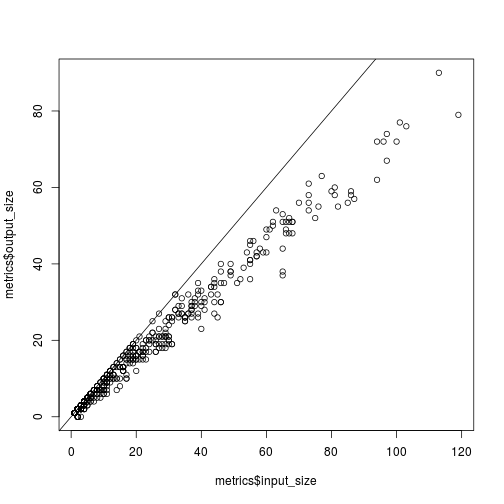
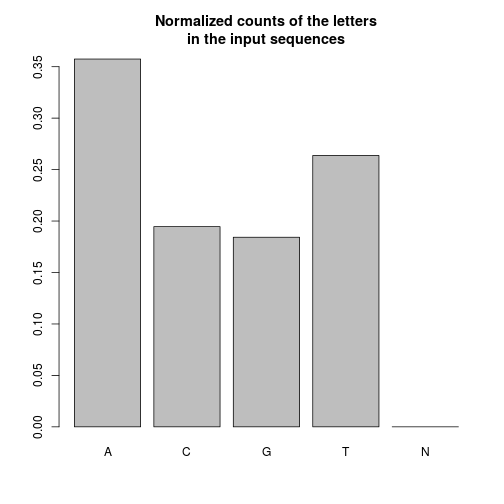
clean up the input file report

diff --git a/inst/report_input_file.html b/inst/report_input_file.html
@@ -3,7 +3,7 @@
 <head>
 <meta http-equiv="Content-Type" content="text/html; charset=utf-8"/>
 
-<title>A Basic report on the input file that was provided</title>
+<title>Input File</title>
 
 <script type="text/javascript">
 window.onload = function() {
@@ -201,12 +201,12 @@ hr {
 </head>
 
 <body>
-<h2>A Basic report on the input file that was provided</h2>
+<h2>Input File</h2>
 
 <pre><code class="r">Sys.time()
 </code></pre>
 
-<pre><code>## [1] &quot;2015-03-17 16:12:40 SAST&quot;
+<pre><code>## [1] &quot;2015-03-19 12:51:11 SAST&quot;
 </code></pre>
 
 <h3>A summary of the input sequences</h3>
@@ -231,33 +231,94 @@ hr {
 
 <h3>The letter frequencies</h3>
 
+<p>Counts of the letters in the input sequences.</p>
+
 <pre><code class="r">x &lt;- apply(consensusMatrix(seq_dat), 1, sum)
 x &lt;- x[x != 0]
-print(x)
+kable(data.frame(letter = names(x),
+                 count = x,
+                 row.names = 1:length(x)))
 </code></pre>
 
-<pre><code>##       A       C       G       T       N 
-## 1889682 1028655  973999 1394116      12
+<table><thead>
+<tr>
+<th align="left">letter</th>
+<th align="right">count</th>
+</tr>
+</thead><tbody>
+<tr>
+<td align="left">A</td>
+<td align="right">1889682</td>
+</tr>
+<tr>
+<td align="left">C</td>
+<td align="right">1028655</td>
+</tr>
+<tr>
+<td align="left">G</td>
+<td align="right">973999</td>
+</tr>
+<tr>
+<td align="left">T</td>
+<td align="right">1394116</td>
+</tr>
+<tr>
+<td align="left">N</td>
+<td align="right">12</td>
+</tr>
+</tbody></table>
+
+<p>Normalized counts of the letters in the input sequences.</p>
+
+<pre><code class="r">x_freq &lt;- round(x/sum(x), 4)
+kable(data.frame(letter = names(x_freq),
+                 count = x_freq,
+                 row.names = 1:length(x_freq)))
 </code></pre>
 
-<pre><code class="r">print(round(x/sum(x), 4))
+<table><thead>
+<tr>
+<th align="left">letter</th>
+<th align="right">count</th>
+</tr>
+</thead><tbody>
+<tr>
+<td align="left">A</td>
+<td align="right">0.3575</td>
+</tr>
+<tr>
+<td align="left">C</td>
+<td align="right">0.1946</td>
+</tr>
+<tr>
+<td align="left">G</td>
+<td align="right">0.1842</td>
+</tr>
+<tr>
+<td align="left">T</td>
+<td align="right">0.2637</td>
+</tr>
+<tr>
+<td align="left">N</td>
+<td align="right">0.0000</td>
+</tr>
+</tbody></table>
+
+<pre><code class="r">barplot(x/sum(x),
+        main = &#39;Normalized counts of the letters\nin the input sequences&#39;)
 </code></pre>
 
-<pre><code>##      A      C      G      T      N 
-## 0.3575 0.1946 0.1842 0.2637 0.0000
-</code></pre>
-
-<pre><code class="r">barplot(x/sum(x))
-</code></pre>
-
[2 lines of base64/hex data omitted]
 
 <h3>The sequence lengths</h3>
 
-<pre><code class="r">hist(width(seq_dat))
+<pre><code class="r">hist(width(seq_dat),
+     main = &quot;Histogram of the lengths of the input sequences&quot;,
+     xlab = &quot;Sequence Length&quot;,
+     ylab = &quot;Number of Sequences&quot;)
 </code></pre>
 
[2 lines of base64/hex data omitted]
 
 </body>
 

diff --git a/inst/report_input_file.md b/inst/report_input_file.md
@@ -1,6 +1,6 @@
 
 
-## A Basic report on the input file that was provided
+## Input File
 
 
 ```r
@@ -8,7 +8,7 @@ Sys.time()
 ```
 
 ```
-## [1] "2015-03-17 16:12:40 SAST"
+## [1] "2015-03-19 12:51:11 SAST"
 ```
 
 ### A summary of the input sequences
@@ -36,38 +36,61 @@ print(seq_dat)
 
 ### The letter frequencies
 
+Counts of the letters in the input sequences.
 
 ```r
 x <- apply(consensusMatrix(seq_dat), 1, sum)
 x <- x[x != 0]
-print(x)
+kable(data.frame(letter = names(x),
+                 count = x,
+                 row.names = 1:length(x)))
 ```
 
-```
-##       A       C       G       T       N 
-## 1889682 1028655  973999 1394116      12
-```
+
+
+|letter |   count|
+|:------|-------:|
+|A      | 1889682|
+|C      | 1028655|
+|G      |  973999|
+|T      | 1394116|
+|N      |      12|
+
+Normalized counts of the letters in the input sequences.
 
 ```r
-print(round(x/sum(x), 4))
+x_freq <- round(x/sum(x), 4)
+kable(data.frame(letter = names(x_freq),
+                 count = x_freq,
+                 row.names = 1:length(x_freq)))
 ```
 
-```
-##      A      C      G      T      N 
-## 0.3575 0.1946 0.1842 0.2637 0.0000
-```
+
+
+|letter |  count|
+|:------|------:|
+|A      | 0.3575|
+|C      | 0.1946|
+|G      | 0.1842|
+|T      | 0.2637|
+|N      | 0.0000|
+
 
 ```r
-barplot(x/sum(x))
+barplot(x/sum(x),
+        main = 'Normalized counts of the letters\nin the input sequences')
 ```
 
-![plot of chunk unnamed-chunk-4](figure/unnamed-chunk-4-1.png) 
+![plot of chunk unnamed-chunk-6](figure/unnamed-chunk-6-1.png) 
 
 ### The sequence lengths
 
 
 ```r
-hist(width(seq_dat))
+hist(width(seq_dat),
+     main = "Histogram of the lengths of the input sequences",
+     xlab = "Sequence Length",
+     ylab = "Number of Sequences")
 ```
 
-![plot of chunk unnamed-chunk-5](figure/unnamed-chunk-5-1.png) 
+![plot of chunk unnamed-chunk-7](figure/unnamed-chunk-7-1.png) 
